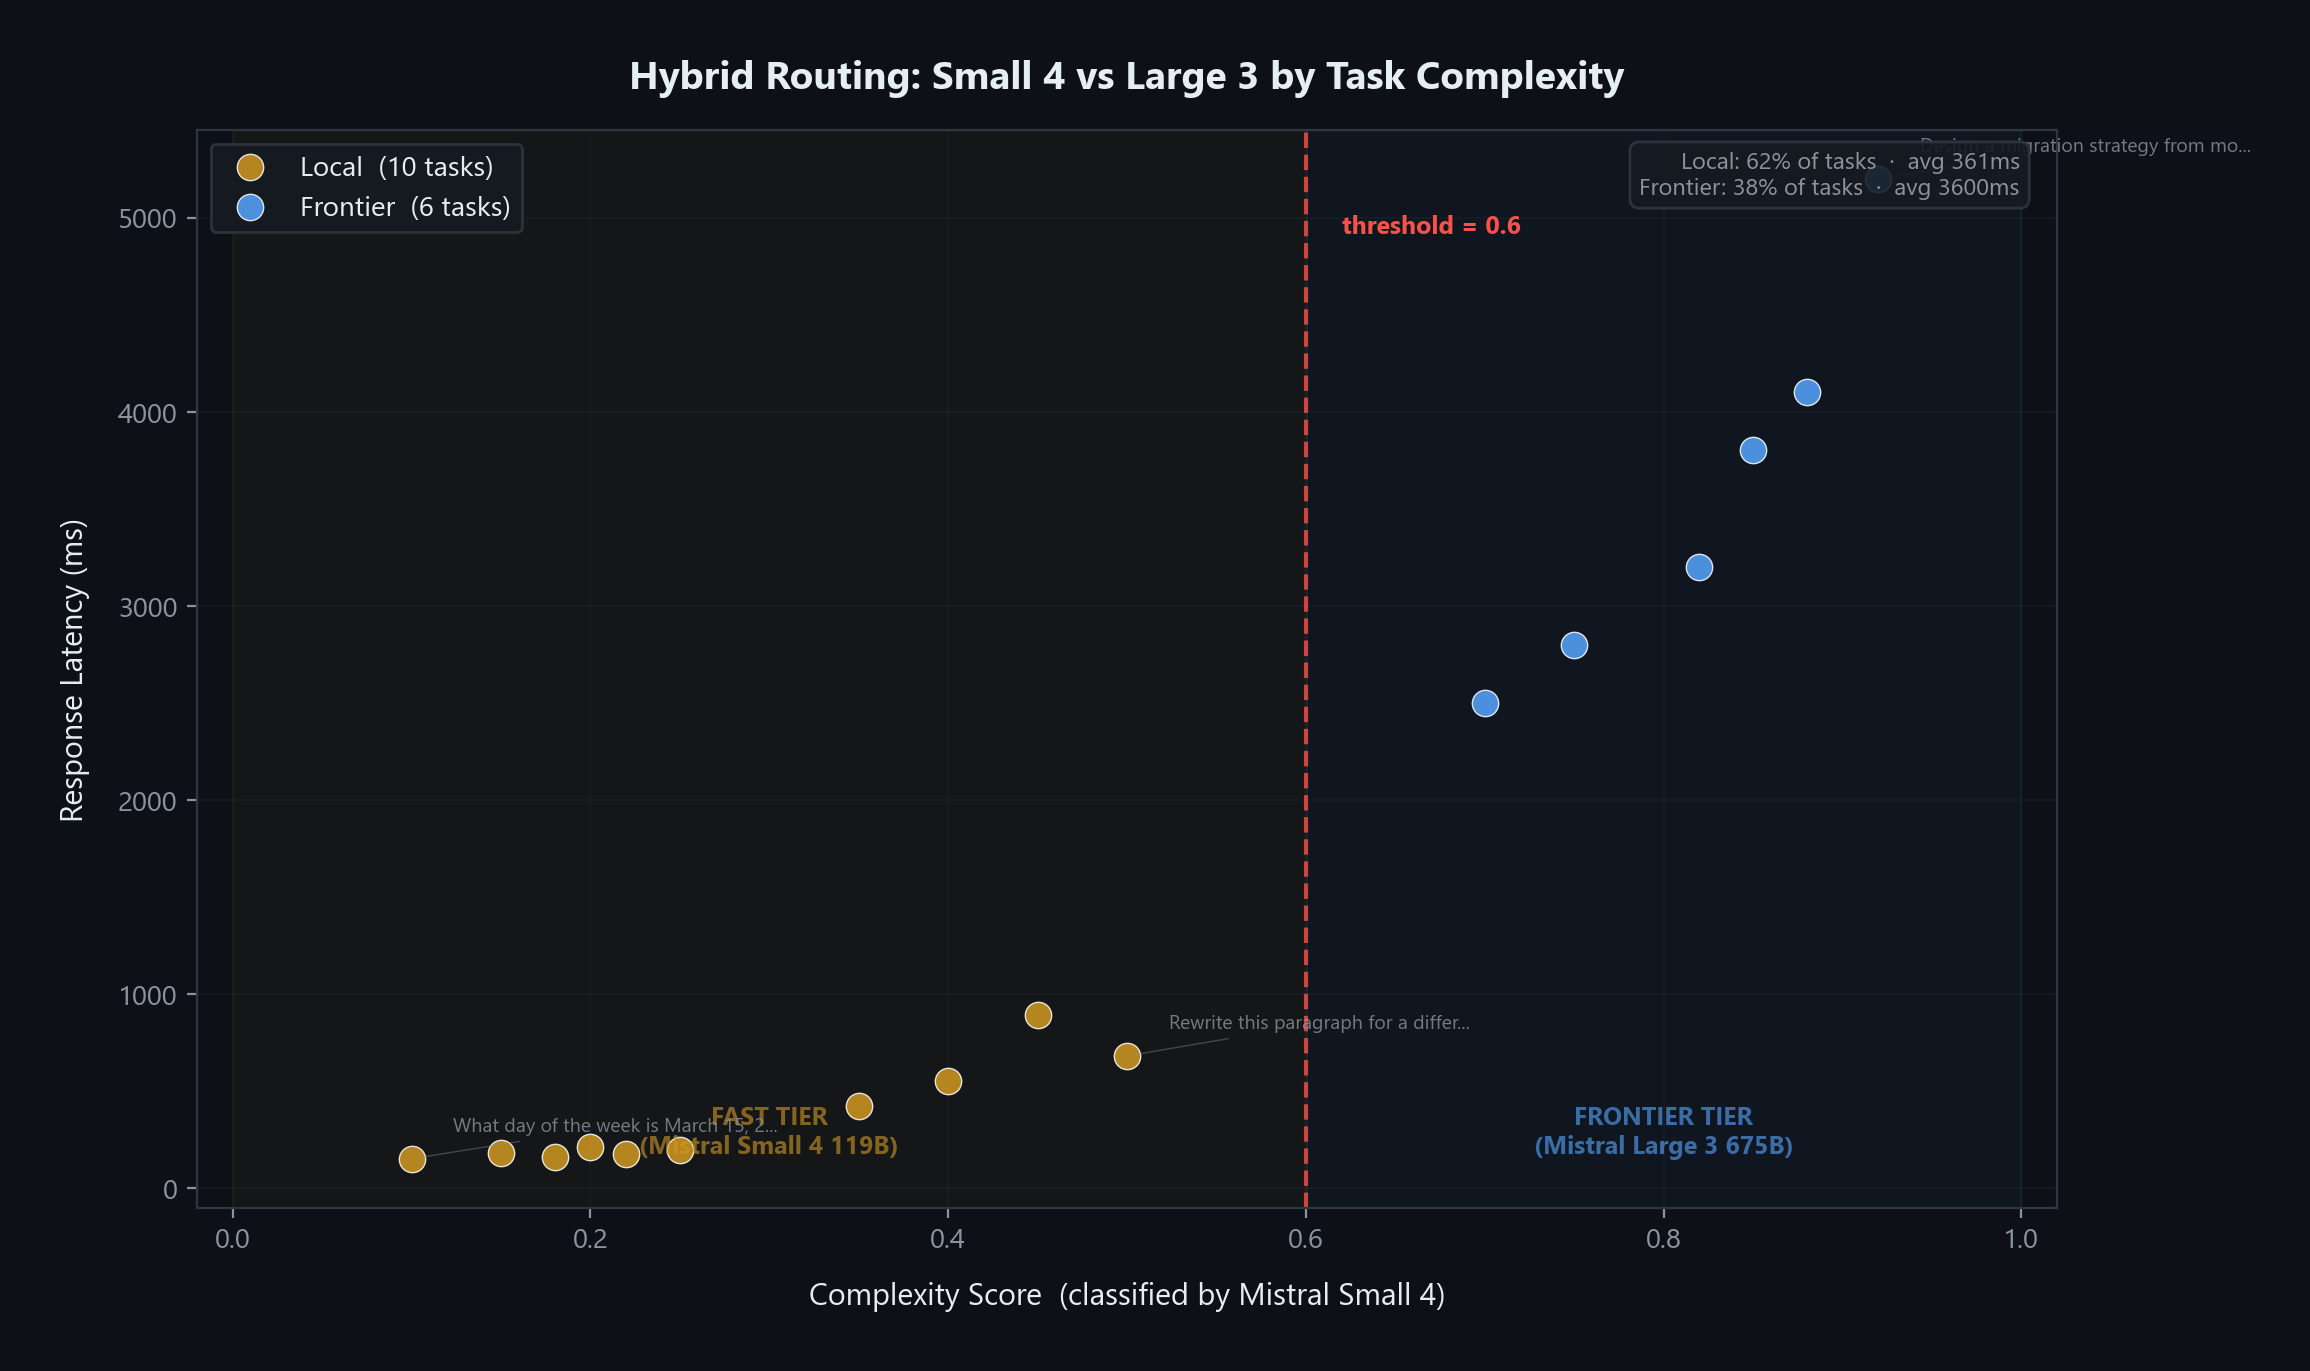
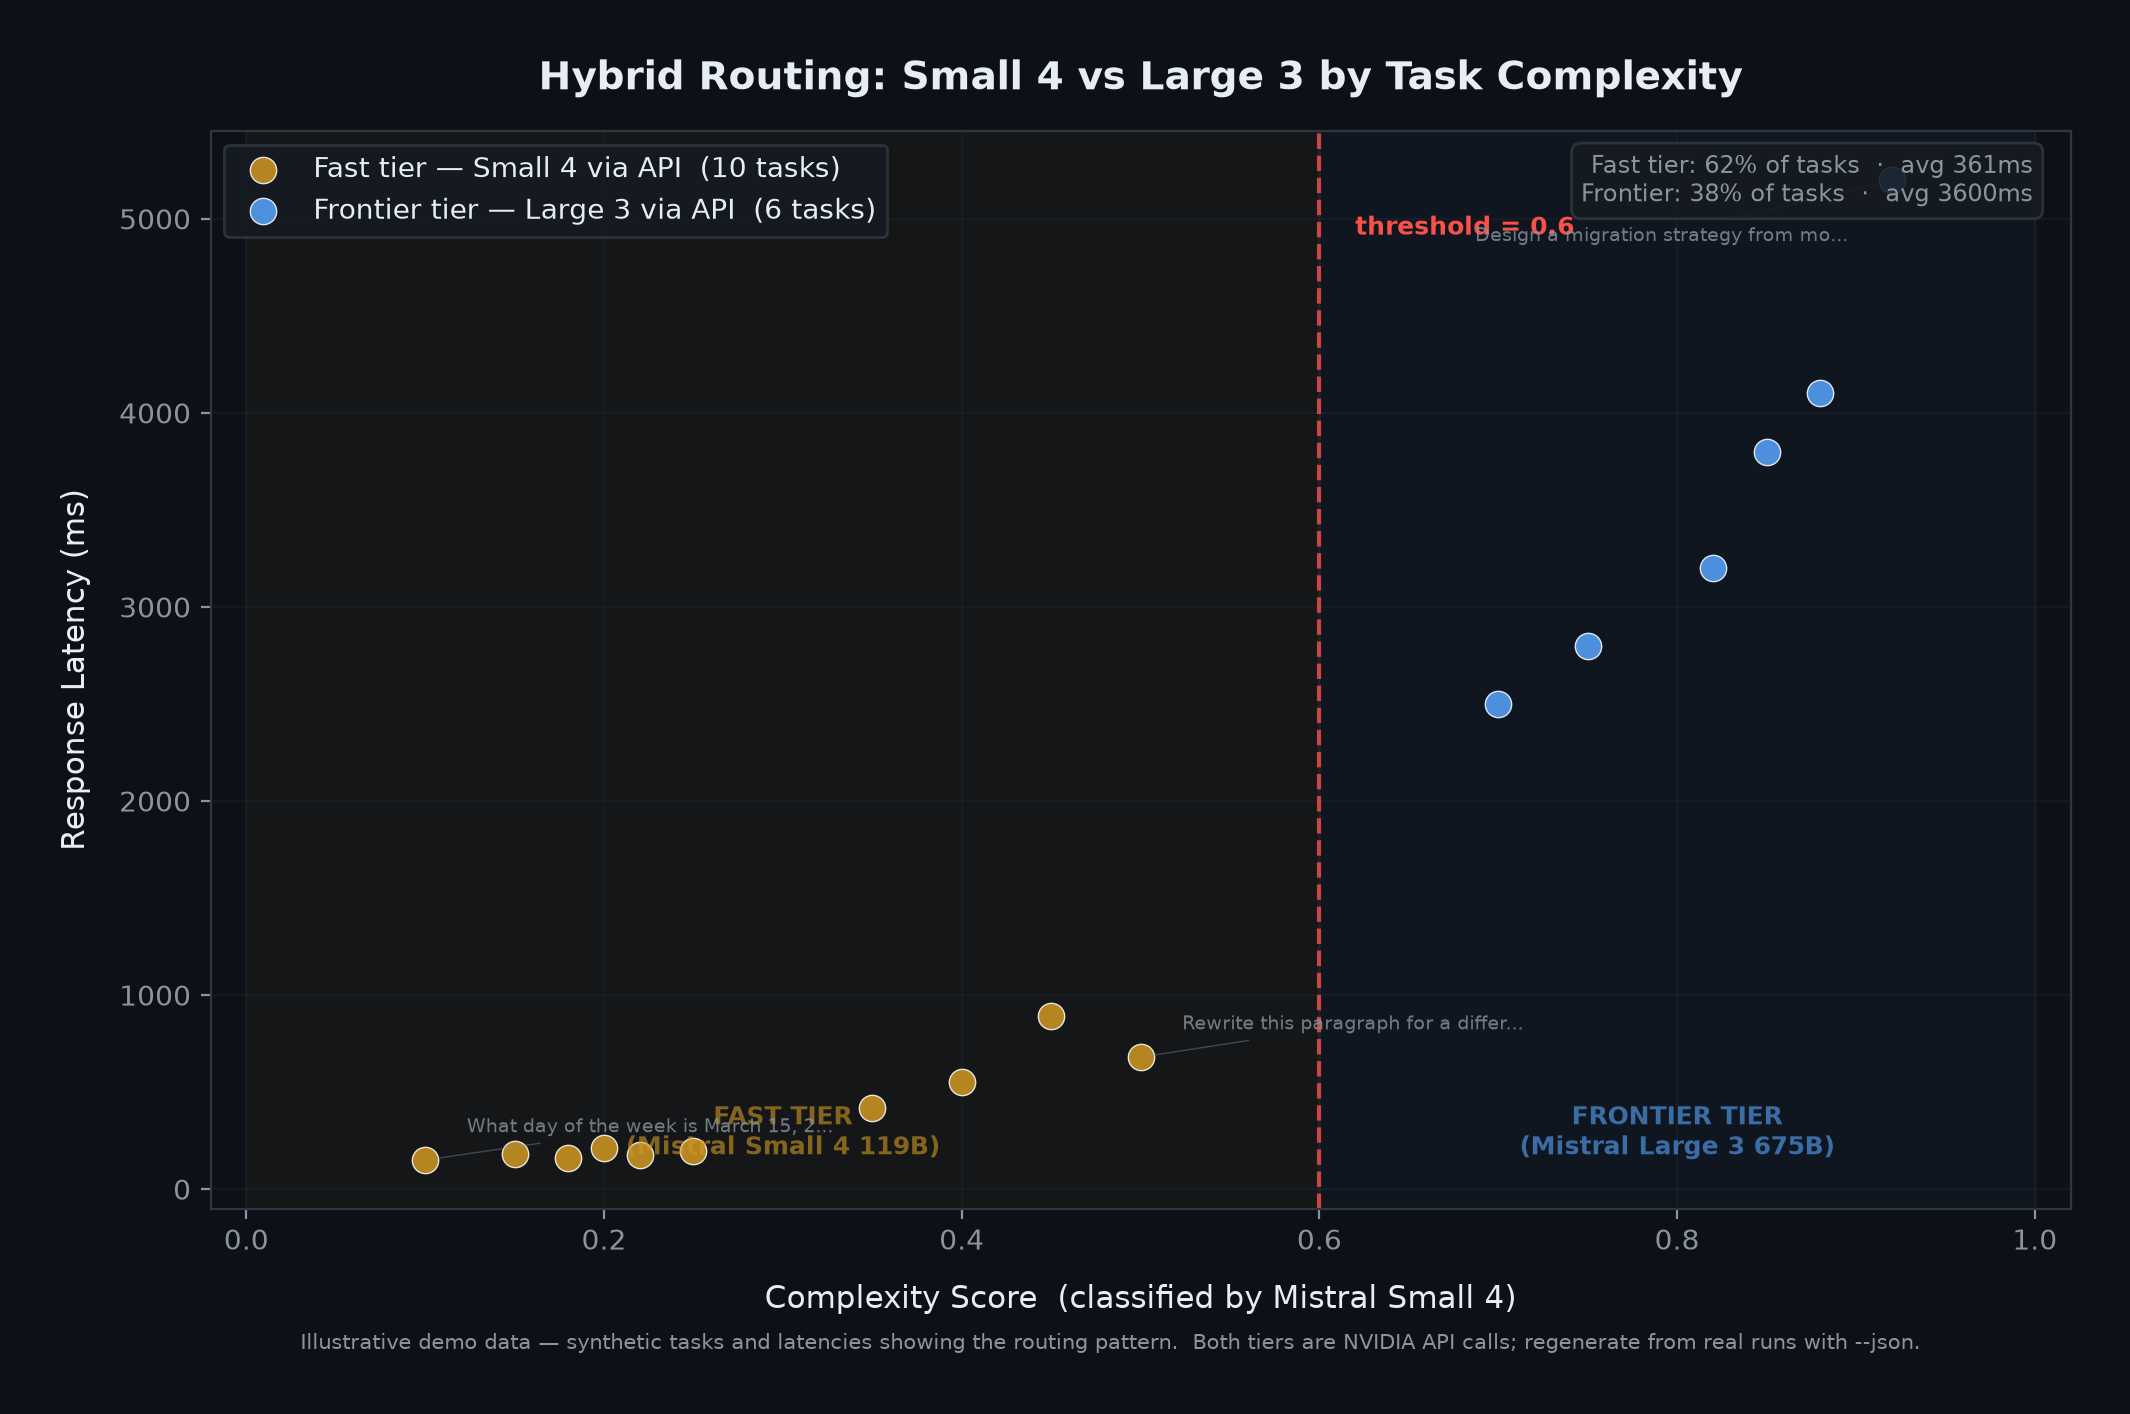
Truthful figure labeling + reproducibility pass
- routing viz: rename 'Local' tier to 'Fast tier — Small 4 via API'
  (both tiers are NVIDIA API calls; the old label misstated the
  deployment mode), mark demo-data renders as illustrative, fix
  annotation collision at high complexity
- router.to_viz_data: stop remapping 'fast' to 'local'
- trace viz: mark demo-trace renders as illustrative
- regenerate all five figures (stack, cost, routing, trace,
  trace-analysis) — full pipeline re-verified 2026-07-03

diff --git a/viz/routing.py b/viz/routing.py
@@ -2,7 +2,7 @@
 Hybrid Router — Routing Decision Visualization
 
 Scatter plot showing tasks by complexity score, colored by which backend
-handled them (local vs frontier), with the threshold line.
+handled them (fast vs frontier tier — both NVIDIA API), with the threshold line.
 
 Works with routing data from projects/02-hybrid-router/router.py or
 with raw data dicts for demo/testing.
@@ -26,21 +26,21 @@ from .theme import GREEN, BLUE, ORANGE, RED_SOFT, PURPLE
 # Demo routing data (matches RouterStats.to_viz_data() output)
 DEMO_DATA = [
     {"task": "Classify this email as spam or not", "complexity": 0.15,
-     "backend": "local", "latency_ms": 180, "tokens": 95},
+     "backend": "fast", "latency_ms": 180, "tokens": 95},
     {"task": "Extract the dollar amount from this invoice", "complexity": 0.20,
-     "backend": "local", "latency_ms": 210, "tokens": 82},
+     "backend": "fast", "latency_ms": 210, "tokens": 82},
     {"task": "What day of the week is March 15, 2026?", "complexity": 0.10,
-     "backend": "local", "latency_ms": 150, "tokens": 45},
+     "backend": "fast", "latency_ms": 150, "tokens": 45},
     {"task": "Summarize this 3-page contract", "complexity": 0.45,
-     "backend": "local", "latency_ms": 890, "tokens": 520},
+     "backend": "fast", "latency_ms": 890, "tokens": 520},
     {"task": "Route this support ticket to the right team", "complexity": 0.25,
-     "backend": "local", "latency_ms": 195, "tokens": 78},
+     "backend": "fast", "latency_ms": 195, "tokens": 78},
     {"task": "Parse JSON and validate schema", "complexity": 0.18,
-     "backend": "local", "latency_ms": 160, "tokens": 65},
+     "backend": "fast", "latency_ms": 160, "tokens": 65},
     {"task": "Translate this paragraph to French", "complexity": 0.35,
-     "backend": "local", "latency_ms": 420, "tokens": 240},
+     "backend": "fast", "latency_ms": 420, "tokens": 240},
     {"task": "Rewrite this paragraph for a different audience", "complexity": 0.50,
-     "backend": "local", "latency_ms": 680, "tokens": 380},
+     "backend": "fast", "latency_ms": 680, "tokens": 380},
     {"task": "Analyze competitive positioning across 4 companies", "complexity": 0.75,
      "backend": "frontier", "latency_ms": 2800, "tokens": 1850},
     {"task": "Write a persuasive appeal for a denied insurance claim", "complexity": 0.82,
@@ -54,9 +54,9 @@ DEMO_DATA = [
     {"task": "Evaluate trade-offs between 3 database architectures", "complexity": 0.70,
      "backend": "frontier", "latency_ms": 2500, "tokens": 1600},
     {"task": "Generate unit tests for this function", "complexity": 0.40,
-     "backend": "local", "latency_ms": 550, "tokens": 310},
+     "backend": "fast", "latency_ms": 550, "tokens": 310},
     {"task": "Normalize these addresses to USPS format", "complexity": 0.22,
-     "backend": "local", "latency_ms": 175, "tokens": 90},
+     "backend": "fast", "latency_ms": 175, "tokens": 90},
 ]
 
 THRESHOLD = 0.6
@@ -65,23 +65,23 @@ THRESHOLD = 0.6
 def draw(ax, data: list[dict], threshold: float = THRESHOLD):
     """Render routing scatter plot."""
 
-    local = [d for d in data if d["backend"] == "local"]
+    fast = [d for d in data if d["backend"] == "fast"]
     frontier = [d for d in data if d["backend"] == "frontier"]
 
     # Scatter
-    if local:
+    if fast:
         ax.scatter(
-            [d["complexity"] for d in local],
-            [d["latency_ms"] for d in local],
+            [d["complexity"] for d in fast],
+            [d["latency_ms"] for d in fast],
             c=ORANGE, s=90, alpha=0.85, edgecolors="white", linewidth=0.5,
-            label=f"Local  ({len(local)} tasks)", zorder=3,
+            label=f"Fast tier — Small 4 via API  ({len(fast)} tasks)", zorder=3,
         )
     if frontier:
         ax.scatter(
             [d["complexity"] for d in frontier],
             [d["latency_ms"] for d in frontier],
             c=BLUE, s=90, alpha=0.85, edgecolors="white", linewidth=0.5,
-            label=f"Frontier  ({len(frontier)} tasks)", zorder=3,
+            label=f"Frontier tier — Large 3 via API  ({len(frontier)} tasks)", zorder=3,
         )
 
     # Threshold line
@@ -108,11 +108,12 @@ def draw(ax, data: list[dict], threshold: float = THRESHOLD):
     for d in data:
         if d["complexity"] in (0.10, 0.92, 0.50):  # extremes + near boundary
             short = d["task"][:35] + "..." if len(d["task"]) > 35 else d["task"]
-            color = ORANGE if d["backend"] == "local" else BLUE
+            color = ORANGE if d["backend"] == "fast" else BLUE
+            offset = (-150, -22) if d["complexity"] > 0.8 else (15, 10)
             ax.annotate(
                 short,
                 xy=(d["complexity"], d["latency_ms"]),
-                xytext=(15, 10), textcoords="offset points",
+                xytext=offset, textcoords="offset points",
                 fontsize=7, color=TEXT_DIM, alpha=0.8,
                 arrowprops=dict(arrowstyle="-", color=TEXT_DIM, lw=0.5, alpha=0.4),
             )
@@ -129,12 +130,12 @@ def draw(ax, data: list[dict], threshold: float = THRESHOLD):
     ax.grid(True, alpha=0.2)
 
     # Stats box
-    local_pct = len(local) / len(data) * 100 if data else 0
-    avg_local_ms = np.mean([d["latency_ms"] for d in local]) if local else 0
+    fast_pct = len(fast) / len(data) * 100 if data else 0
+    avg_fast_ms = np.mean([d["latency_ms"] for d in fast]) if fast else 0
     avg_frontier_ms = np.mean([d["latency_ms"] for d in frontier]) if frontier else 0
     stats_text = (
-        f"Local: {local_pct:.0f}% of tasks  ·  avg {avg_local_ms:.0f}ms\n"
-        f"Frontier: {100-local_pct:.0f}% of tasks  ·  avg {avg_frontier_ms:.0f}ms"
+        f"Fast tier: {fast_pct:.0f}% of tasks  ·  avg {avg_fast_ms:.0f}ms\n"
+        f"Frontier: {100-fast_pct:.0f}% of tasks  ·  avg {avg_frontier_ms:.0f}ms"
     )
     ax.text(0.98, 0.98, stats_text, transform=ax.transAxes,
             fontsize=8.5, color=TEXT_DIM, va="top", ha="right",
@@ -144,9 +145,15 @@ def draw(ax, data: list[dict], threshold: float = THRESHOLD):
 def render(out_dir: Path, data: list[dict] | None = None,
            threshold: float = THRESHOLD):
     apply_theme()
+    is_demo = data is None
     data = data or DEMO_DATA
     fig, ax = plt.subplots(figsize=(12, 7))
     draw(ax, data, threshold)
+    if is_demo:
+        fig.text(0.5, 0.01,
+                 "Illustrative demo data — synthetic tasks and latencies showing the routing pattern."
+                 "  Both tiers are NVIDIA API calls; regenerate from real runs with --json.",
+                 ha="center", fontsize=7.5, color=TEXT_DIM)
     out = out_dir / "hybrid-routing-decisions.png"
     fig.savefig(out, dpi=200, bbox_inches="tight", pad_inches=0.3)
     plt.close(fig)

diff --git a/viz/trace.py b/viz/trace.py
@@ -177,11 +177,17 @@ def draw(ax, trace: list[dict]):
 
 
 def render(out_dir: Path, trace: list[dict] | None = None):
+    is_demo = trace is None
     apply_theme()
     trace = trace or DEMO_TRACE
     h = max(8, len(trace) * 1.3 + 2.5)
     fig, ax = plt.subplots(figsize=(10, h))
     draw(ax, trace)
+    if is_demo:
+        fig.text(0.5, 0.01,
+                 "Illustrative trace — a simplified agent run showing the loop structure."
+                 "  Render a captured run with --json <trace.json>.",
+                 ha="center", fontsize=7.5, color=TEXT_DIM)
     out = out_dir / "agent-loop-trace.png"
     fig.savefig(out, dpi=200, bbox_inches="tight", pad_inches=0.3)
     plt.close(fig)

diff --git a/projects/02_hybrid_router/router.py b/projects/02_hybrid_router/router.py
@@ -81,12 +81,13 @@ class RouterStats:
         return sum(d.total_ms for d in self.decisions) / self.total
 
     def to_viz_data(self) -> list[dict]:
-        """Export for visualization."""
+        """Export for visualization. Backend names stay truthful: both tiers
+        are API calls — "fast" (Small 4) and "frontier" (Large 3)."""
         return [
             {
                 "task": d.task[:80],
                 "complexity": d.complexity_score,
-                "backend": "local" if d.backend == "fast" else "frontier",
+                "backend": d.backend,
                 "latency_ms": d.total_ms,
                 "tokens": d.input_tokens + d.output_tokens,
             }